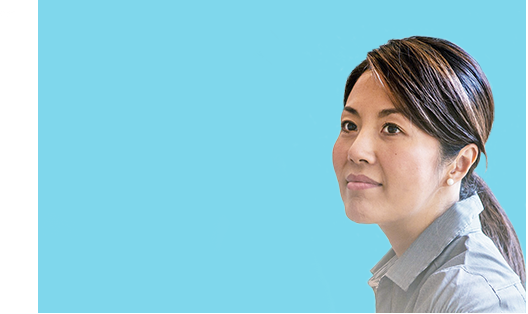
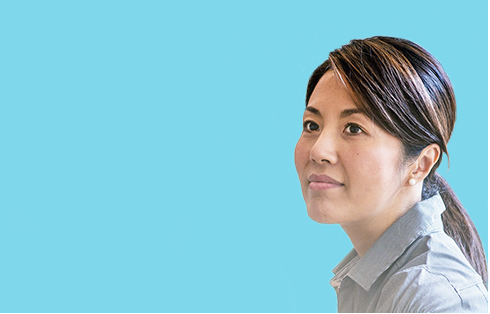
zajęcia

Changed region(s): [[0.5816, 0.1146, 1.0, 1.0], [0.0, 0.0, 0.0918, 1.0]]

diff --git a/index.html b/index.html
@@ -106,7 +106,7 @@ Portowo</h4>
             </div>
             <div class="col-xs-2 img1">
             </div>
-            <div class="col-xs-1"><img src="images/img_08.png" />
+            <div class="col-xs-1 strzalka">
             </div>
             <div class="col-xs-2">
                 <h4>
@@ -117,7 +117,7 @@ Park w starym korycie Warty</h4>
             </div>
             <div class="col-xs-2 img2">
             </div>
-            <div class="col-xs-1"><img src="images/img_08.png" />
+            <div class="col-xs-1 strzalka">
             </div>
         </div>
         <div class="row">
@@ -129,7 +129,7 @@ Park w starym korycie Warty</h4>
             </div>
             <div class="col-xs-2 img4">
             </div>
-            <div class="col-xs-1"><img src="images/img_08.png" />
+            <div class="col-xs-1 strzalka">
             </div>
             <div class="col-xs-2">
                 <h4>Konkurs "Zmiany nad Wartą"</h4>
@@ -139,7 +139,7 @@ Park w starym korycie Warty</h4>
             </div>
             <div class="col-xs-2 img3">
             </div>
-            <div class="col-xs-1"><img src="images/img_08.png" />
+            <div class="col-xs-1 strzalka">
             </div>
         </div>
         <div class="row">
@@ -174,19 +174,20 @@ Park w starym korycie Warty</h4>
                 <p>złotych to korzyści ekonomiczne, jakie może osiągnąć miasto</p>
             </div>
 
-            <div class="col-xs-offset-1 col-xs-2">
-                <img src="images/strzalka_mala.png">
-                <p>Informacje dla firm</p>
-                <img src="images/strzalka_mala.png">
-                <p>Informacje dla instytucji</p>
-                <img src="images/strzalka_mala.png">
-                <p>Informacje dla mieszkańców</p>
+            <div class="oklastrze col-sm-offset-4 col-sm-2 col-md-offset-1 col-md-2">
+                <ul>
+                    <li>Informacje dla firm</li>
+
+                    <li>Informacje dla instytucji</li>
+
+                    <li>Informacje dla mieszkańców</li>
+                </ul>
             </div>
         </div>
 
         <h1 class="col-xs-offset-1">Partnerzy</h1>
         <div class="row">
-            <div class="col-xs-offset-1 col-xs-3">
+            <div class="col-sm-offset-1 col-md-3 col-sm-3 col-xs-12">
                 <p>Wielkopolski Klaster Rzeczny to 83 gminy, przedsiębiorstwa i instytucje, które współdziałają na rzecz rozwoju terenów nadrzecznych na terenie całego województwa.</p>
                 <div class="row">
                     <div class="col-xs-4 loga"><img src="images/logo/img%20(10).png" />
@@ -221,9 +222,9 @@ Park w starym korycie Warty</h4>
                     </div>
                 </div>
             </div>
-            <div class="col-xs-offset-1 col-xs-5 person">
+            <div class="hidden-xs col-sm-offset-1 col-md-5 col-sm-12 person">
                 <div class="row">
-                    <div class="col-xs-offset-1 col-xs-7">
+                    <div class="col-lg-7 col-md-9 col-sm-5">
                         <p>“Dzięki klastrze moja firma zdobyła dofinansowanie z funduszy Unii Europejskiej na rozwój nowej inwestycji w Koziegłowach. Dużo zawdzięczam też poszczególnym firmom, z którymi miałam przyjemność współpracować. ”</p>
                         <p class="text-right">
                             <br>Anna Kowalska
@@ -285,7 +286,7 @@ Park w starym korycie Warty</h4>
     </div>
 
     <footer>
-        <a href="page2.html" class="col-xs-offset-4 col-xs-1">Aktualności</a>
+        <a href="page2.html" class="col-xs-offset-4 col-md-1">Aktualności</a>
 
         <a href="page2.html" class="col-xs-1">O klastrze</a>
 

diff --git a/style.css b/style.css
@@ -70,6 +70,7 @@ div.navbar-header {
 
 .calltoaction {
     border: 3px solid white;
+    text-align: center;
 }
 
 .navbar-nav {
@@ -93,7 +94,7 @@ div.navbar-header {
 }
 
 .person {
-    background: white url("images/person.png") no-repeat center;
+    background: white url("images/person.png") no-repeat left center;
     height: 314px;
 }
 
@@ -101,6 +102,10 @@ div.navbar-header {
     padding-left: 50px;
     padding-right: 50px;
     padding-top: 30px;
+}
+
+.oklastrze {
+    list-style-image: url("images/strzalka_mala.png");
 }
 /*to jest przykłąd, ale nie używajcie hover ;)
 .ma-efekt:hover {
@@ -120,4 +125,8 @@ div.navbar-header {
 
 @media (orientation: landscape) and (min-width: 800px) {
     /*poziome i szersze niż 800*/
+}
+
+.strzalka {
+    background: url(images/img_08.png) no-repeat left center;
 }
